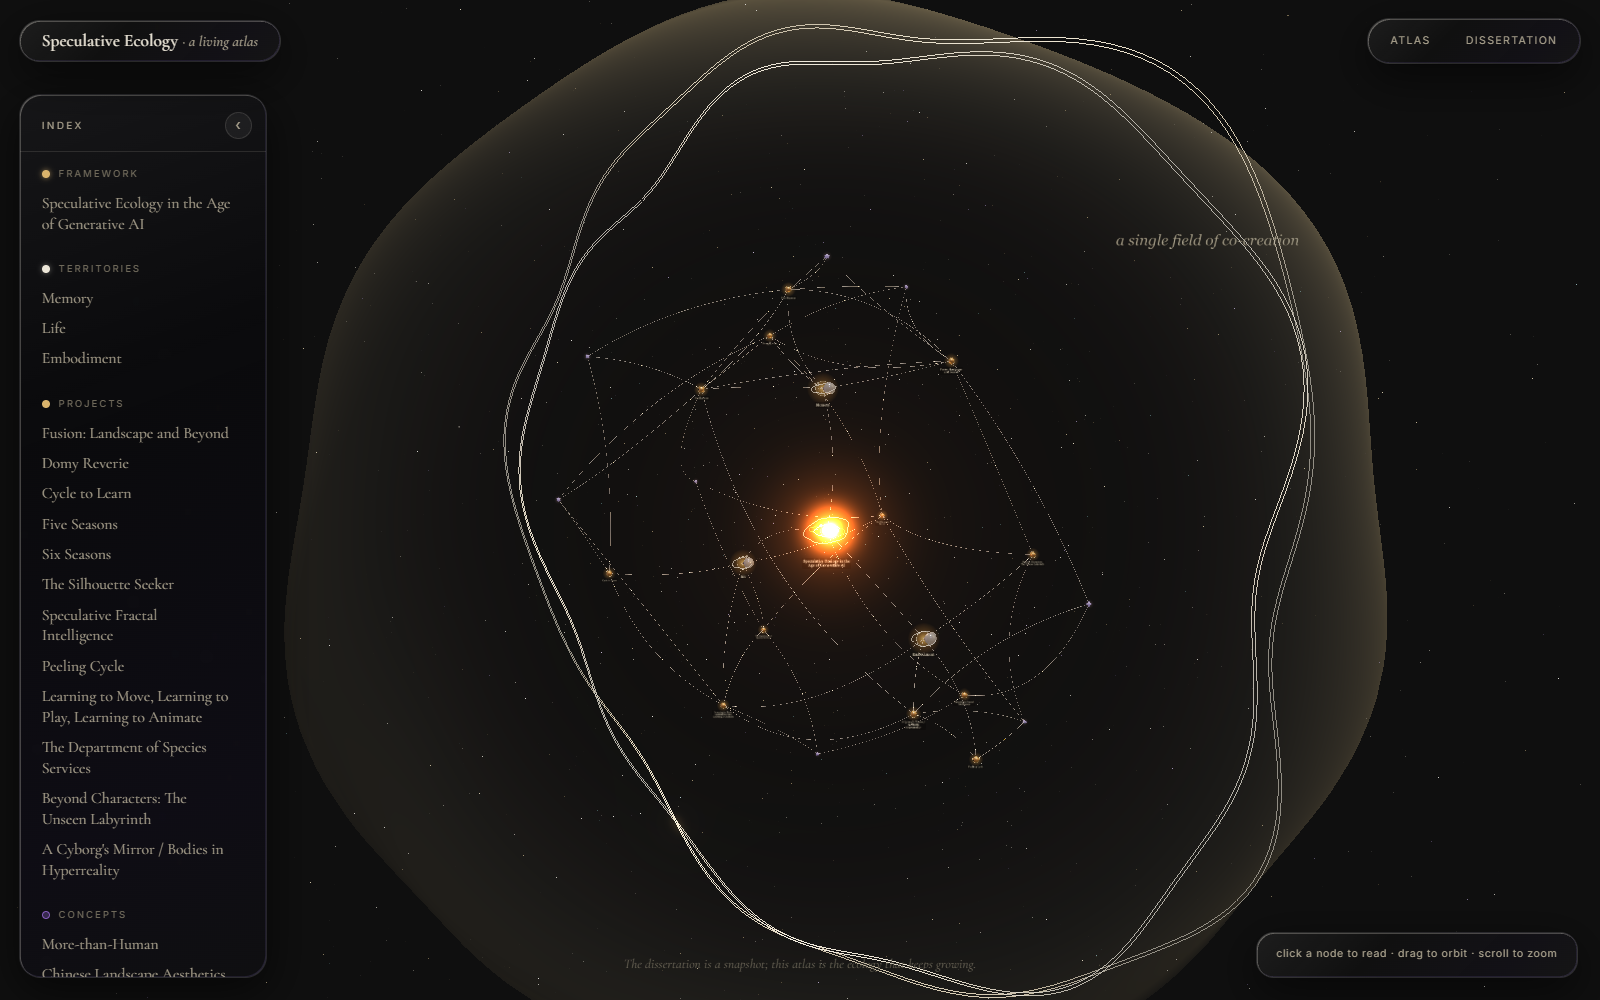
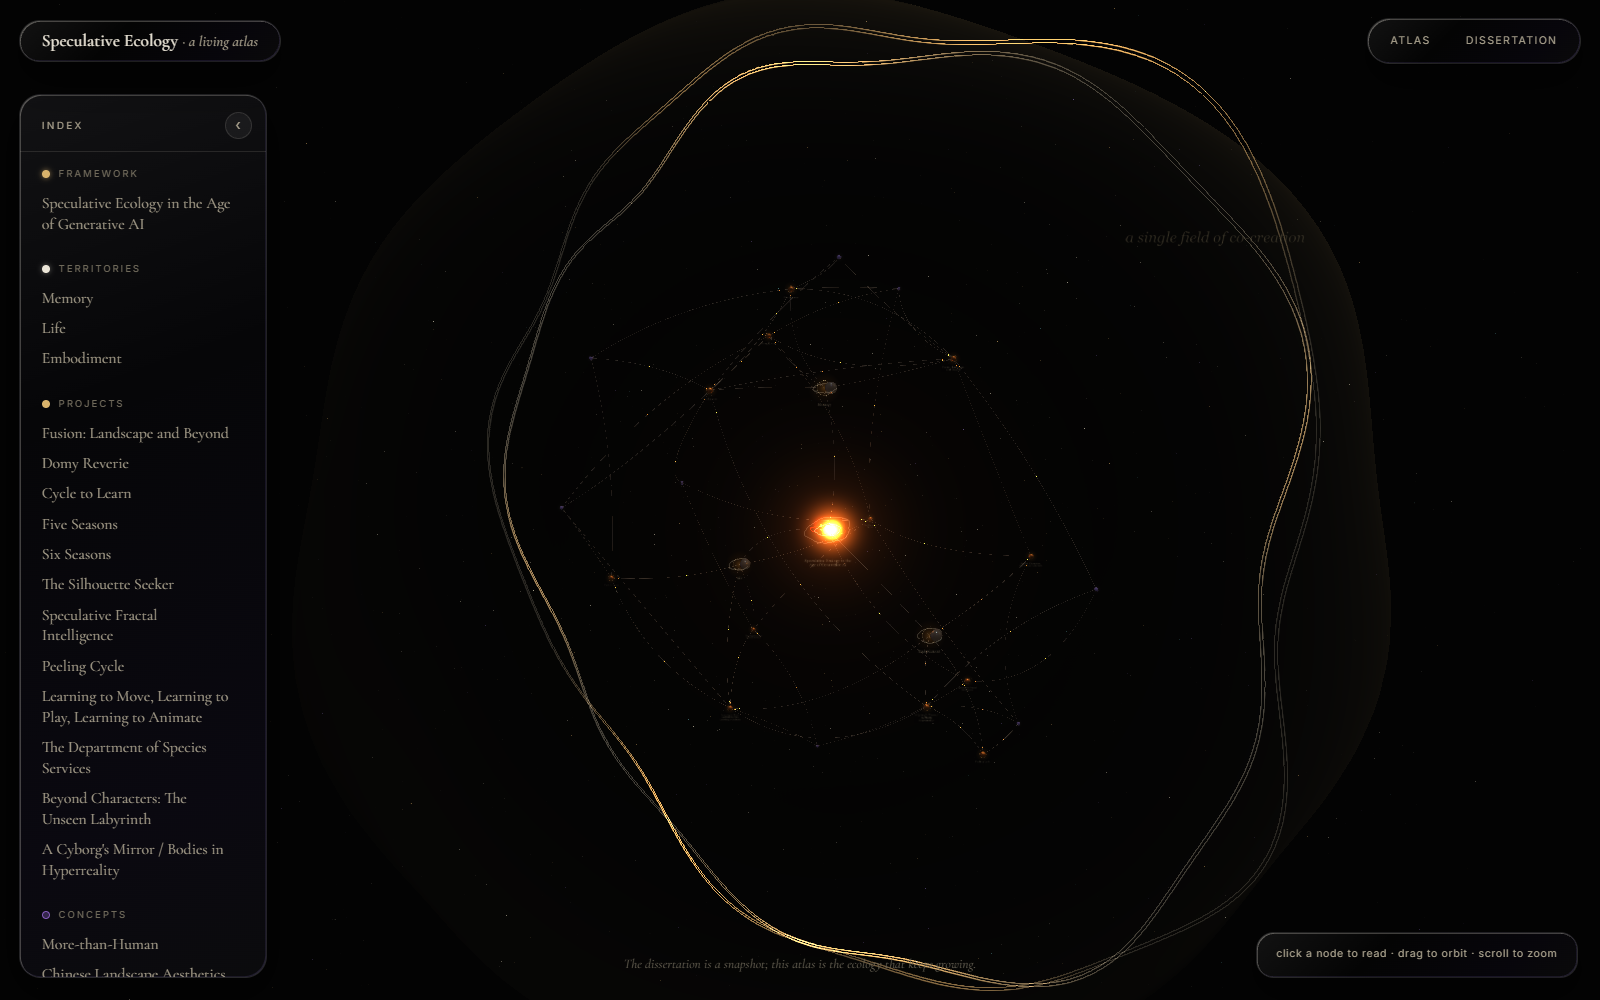
Anti-alias the WebGL scene: SMAA pass + higher pixel ratio
Thin lines (links and the drawn rings) aliased badly when zoomed out
because the bloom EffectComposer renders to offscreen targets, bypassing
the renderer's default MSAA. Append an SMAAPass so every edge in the
composited image is smoothed, and lift the device pixel ratio cap to 2 so
the offscreen targets and SMAA work at higher resolution. Color pipeline
and bloom unchanged (verified: nebula link hues and warm nucleus intact).

diff --git a/components/AtlasMap3D.tsx b/components/AtlasMap3D.tsx
@@ -4,6 +4,7 @@ import dynamic from 'next/dynamic';
 import { useCallback, useEffect, useMemo, useRef, useState } from 'react';
 import * as THREE from 'three';
 import { UnrealBloomPass } from 'three/examples/jsm/postprocessing/UnrealBloomPass.js';
+import { SMAAPass } from 'three/examples/jsm/postprocessing/SMAAPass.js';
 import type {
   ForceGraphMethods,
   LinkObject,
@@ -319,7 +320,19 @@ export default function AtlasMap3D() {
         0.55, // radius
         0.72, // threshold — labels (#ded7c4, linear ≈ 0.68) stay below
       );
-      fg.postProcessingComposer().addPass(bloom);
+      const composer = fg.postProcessingComposer();
+      composer.addPass(bloom);
+
+      /* The bloom EffectComposer renders the scene to offscreen targets,
+         which bypasses the renderer's default MSAA — so thin lines (links,
+         the drawn rings) alias badly, worst of all when zoomed out. Cap the
+         device pixel ratio a touch higher for crispness, then append an SMAA
+         pass so every edge in the composited image is smoothed. */
+      const pr = Math.min(window.devicePixelRatio || 1, 2);
+      renderer.setPixelRatio(pr);
+      composer.setPixelRatio(pr);
+      const smaa = new SMAAPass();
+      composer.addPass(smaa);
 
       /* per-frame driver, hooked onto the (never-culled) starfield:
          twinkle time, slow star drift, ring rotation, nucleus breathing,